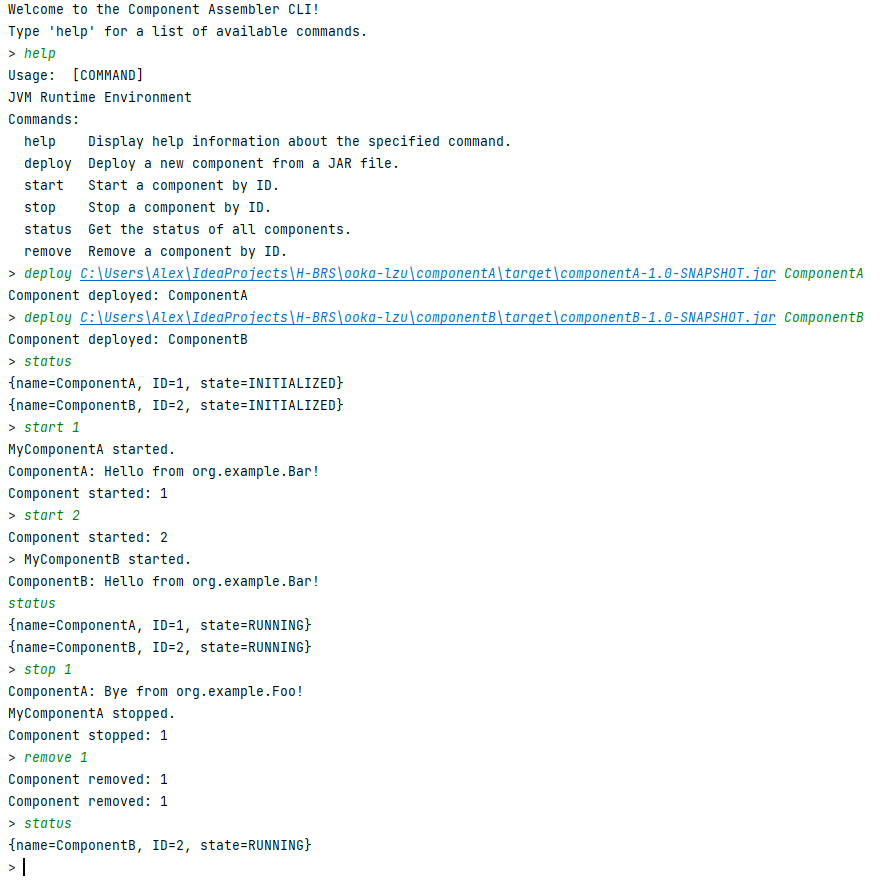
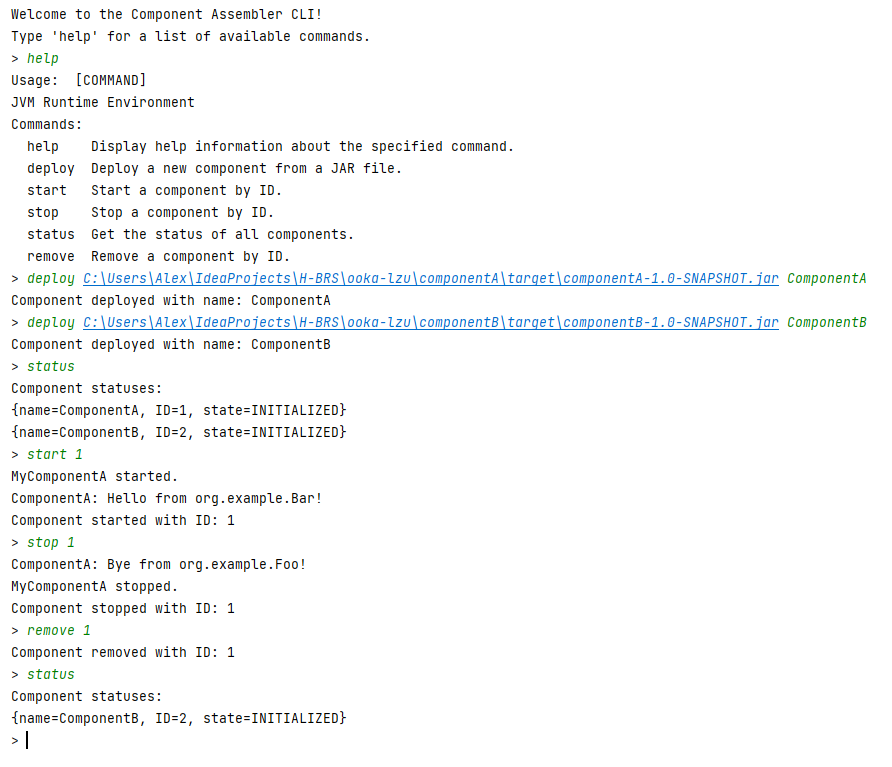
More verbose CLI

Changed region(s): [[0.0, 0.0, 0.9708, 0.9896]]

diff --git a/src/main/java/cli/ComponentAssemblerCLI.java b/src/main/java/cli/ComponentAssemblerCLI.java
@@ -4,10 +4,13 @@ import lzu.ComponentLoader;
 import picocli.CommandLine;
 import picocli.CommandLine.Command;
 import picocli.CommandLine.Parameters;
+
 import java.io.BufferedReader;
 import java.io.IOException;
 import java.io.InputStreamReader;
 import java.nio.file.Path;
+import java.util.List;
+import java.util.Map;
 import java.util.concurrent.Callable;
 
 public class ComponentAssemblerCLI {
@@ -19,6 +22,7 @@ public class ComponentAssemblerCLI {
 
         public Integer call() {
             componentLoader.startRuntime();
+            System.out.println("Runtime started");
             return 0;
         }
     }
@@ -35,7 +39,7 @@ public class ComponentAssemblerCLI {
         public Integer call() {
             try {
                 componentLoader.deployComponent(componentJarPath, componentName);
-                System.out.println("Component deployed: " + componentName);
+                System.out.println("Component deployed with name: " + componentName);
             } catch (Exception e) {
                 System.err.println("Error deploying component: " + e.getMessage());
                 return 1;
@@ -53,7 +57,7 @@ public class ComponentAssemblerCLI {
         public Integer call() {
             try {
                 componentLoader.startComponentById(componentId);
-                System.out.println("Component started: " + componentId);
+                System.out.println("Component started with ID: " + componentId);
             } catch (Exception e) {
                 System.err.println("Error starting component: " + e.getMessage());
                 return 1;
@@ -71,7 +75,7 @@ public class ComponentAssemblerCLI {
         public Integer call() {
             try {
                 componentLoader.stopComponentById(componentId);
-                System.out.println("Component stopped: " + componentId);
+                System.out.println("Component stopped with ID: " + componentId);
             } catch (Exception e) {
                 System.err.println("Error stopping component: " + e.getMessage());
                 return 1;
@@ -85,7 +89,15 @@ public class ComponentAssemblerCLI {
         @Override
         public Integer call() {
             try {
-                componentLoader.getAllComponentStatuses().forEach(System.out::println);
+                List<Map<String, Object>> statuses = componentLoader.getAllComponentStatuses();
+                if (statuses.isEmpty()) {
+                    System.out.println("No components deployed.");
+                } else {
+                    System.out.println("Component statuses:");
+                    for (Map<String, Object> status : statuses) {
+                        System.out.println(status);
+                    }
+                }
             } catch (Exception e) {
                 System.err.println("Error retrieving component statuses: " + e.getMessage());
                 return 1;
@@ -94,7 +106,7 @@ public class ComponentAssemblerCLI {
         }
     }
 
-    @Command(name= "remove", description = "Remove a component by ID.")
+    @Command(name = "remove", description = "Remove a component by ID.")
     static class RemoveCommand implements Callable<Integer> {
         @Parameters(index = "0", description = "The ID of the component to remove.")
         private int componentId;
@@ -103,7 +115,7 @@ public class ComponentAssemblerCLI {
         public Integer call() {
             try {
                 componentLoader.removeComponentById(componentId);
-                System.out.println("Component removed: " + componentId);
+                System.out.println("Component removed with ID: " + componentId);
             } catch (Exception e) {
                 System.err.println("Error removing component: " + e.getMessage());
                 return 1;
@@ -134,6 +146,7 @@ public class ComponentAssemblerCLI {
                 continue;
             }
             if (line == null || line.trim().equalsIgnoreCase("exit")) {
+                componentLoader.stopRuntime();
                 break;
             }
 

diff --git a/src/main/java/lzu/ComponentLoader.java b/src/main/java/lzu/ComponentLoader.java
@@ -28,11 +28,10 @@ public class ComponentLoader {
     }
 
     public void startRuntime() {
-        System.out.println("Laufzeitumgebung gestartet.");
     }
 
     public void stopRuntime() {
-        System.out.println("Laufzeitumgebung gestoppt.");
+        stopAllComponents();
     }
 
     public List<Class<?>> deployComponent(Path jarFilePath, String name) {
@@ -140,7 +139,6 @@ public class ComponentLoader {
         if (componentInstance != null) {
             if (componentInstance.getState() == ComponentState.STOPPED || componentInstance.getState() == ComponentState.INITIALIZED) {
                 components.remove(componentID);
-                System.out.println("Component removed: " + componentID);
             } else {
                 System.out.println("Component is not stopped. Please stop the component before removing it.");
             }
